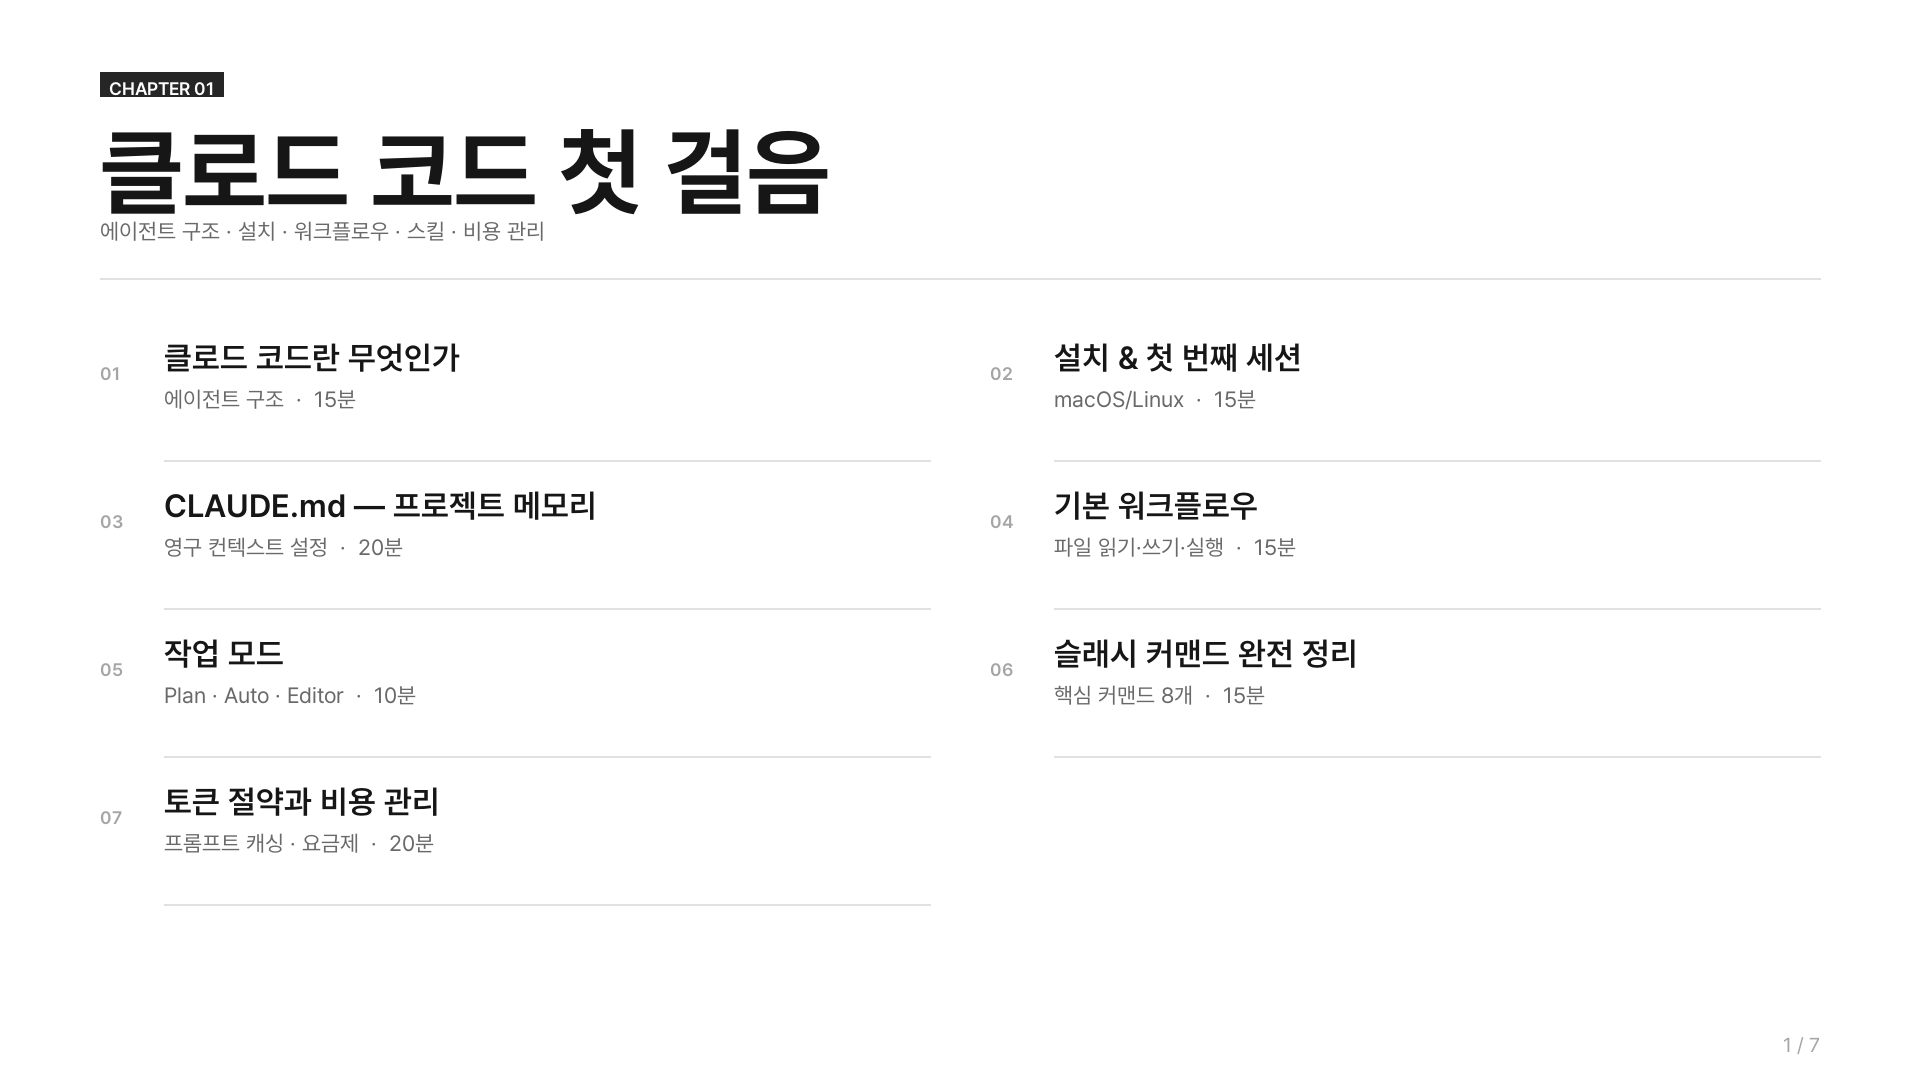
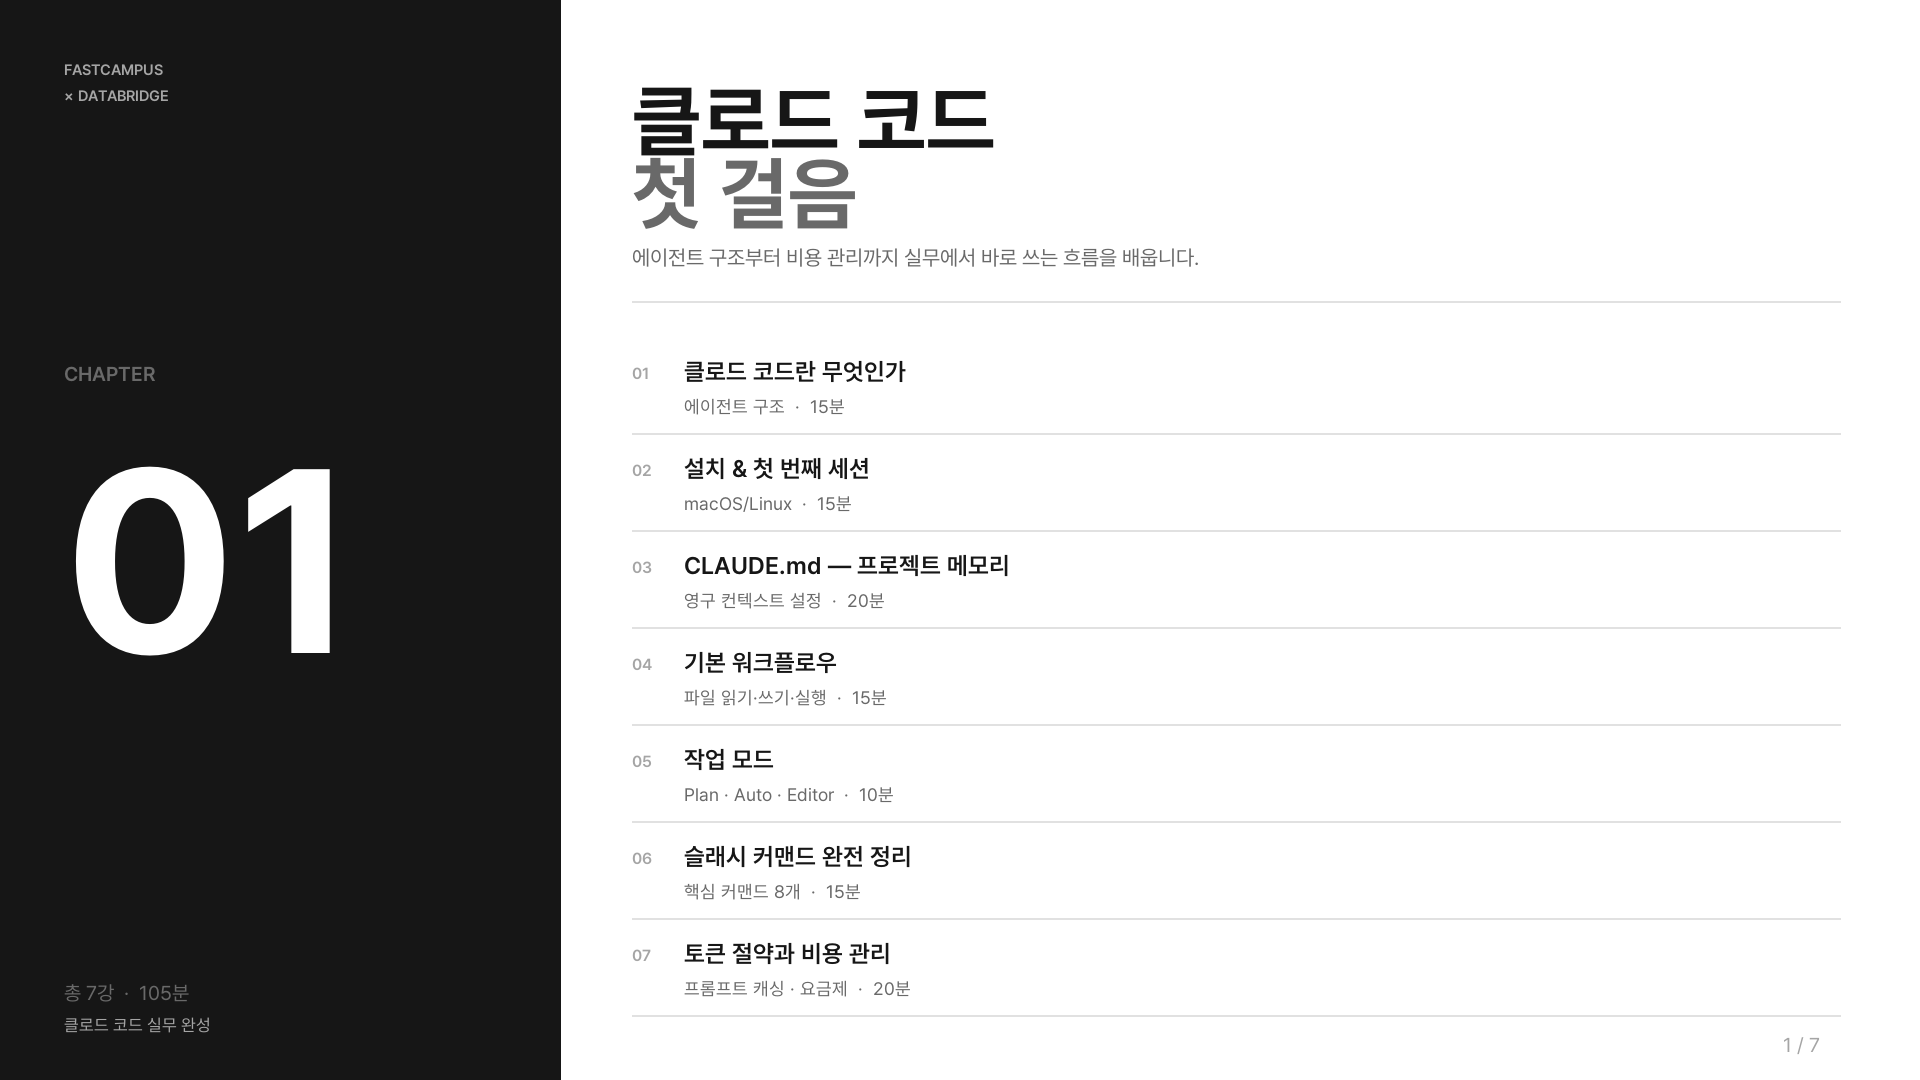
CH01 타이틀 슬라이드: 블랙/화이트 분할 전용 레이아웃

diff --git a/scripts/make_ch01_ref.py b/scripts/make_ch01_ref.py
@@ -140,39 +140,76 @@ def top_header(d, cat, title, desc="", tsz=52):
     y+=28; HL(d,MX,y,FW,C100); return y+28
 
 # ══════════════════════════════════════════════════════════════
-# SLIDE 01 — 챕터 타이틀
+# SLIDE 01 — 챕터 타이틀 (전용 레이아웃)
+# 좌: 블랙 패널 (챕터 번호) / 우: 화이트 패널 (제목 + 클립 목록)
 # ══════════════════════════════════════════════════════════════
 img,d=new_slide()
 
-# 대형 헤더
-y=72
-bw,bh=badge(d,MX,y,"CHAPTER 01",18); y+=bh+18
-f_big=F(96,"b")
-d.text((MX,y),"클로드 코드 첫 걸음",font=f_big,fill=C900)
-y+=th(d,"클로드 코드 첫 걸음",f_big)+18
-wT(d,MX,y,"에이전트 구조 · 설치 · 워크플로우 · 스킬 · 비용 관리",22,"r",C500,FW*0.65)
-y+=60; HL(d,MX,y,FW,C100); y+=40
+LP = 560        # 좌측 블랙 패널 너비
+PAD_L = 64      # 블랙 패널 내부 패딩
+PAD_R = 72      # 우측 패딩
 
-# 클립 목록 2열
-clips=[
-    ("01","클로드 코드란 무엇인가","에이전트 구조  ·  15분"),
-    ("02","설치 & 첫 번째 세션","macOS/Linux  ·  15분"),
-    ("03","CLAUDE.md — 프로젝트 메모리","영구 컨텍스트 설정  ·  20분"),
-    ("04","기본 워크플로우","파일 읽기·쓰기·실행  ·  15분"),
-    ("05","작업 모드","Plan · Auto · Editor  ·  10분"),
-    ("06","슬래시 커맨드 완전 정리","핵심 커맨드 8개  ·  15분"),
-    ("07","토큰 절약과 비용 관리","프롬프트 캐싱 · 요금제  ·  20분"),
+# ── 좌측 블랙 패널 ──────────────────────────────────────────
+d.rectangle([0, 0, LP, H], fill=C900)
+
+# 코스 라벨 (상단)
+T(d, PAD_L, 60, "FASTCAMPUS", 15, "sb", C300)
+T(d, PAD_L, 86, "× DATABRIDGE", 15, "sb", C300)
+
+# 대형 챕터 번호 — 슬라이드 중앙에 배치
+f_num = F(260, "b")
+num_str = "01"
+nw = tw(d, num_str, f_num)
+nh = th(d, num_str, f_num)
+nx = PAD_L
+ny = (H - nh) // 2 - 40
+d.text((nx, ny), num_str, font=f_num, fill=WHITE)
+
+# "CHAPTER" 레이블 (숫자 위)
+T(d, PAD_L, ny - 44, "CHAPTER", 20, "sb", C500)
+
+# 총 시간 (하단)
+T(d, PAD_L, H - 100, "총 7강  ·  105분", 20, "r", C500)
+T(d, PAD_L, H - 66, "클로드 코드 실무 완성", 17, "r", C300)
+
+# ── 우측 화이트 패널 ─────────────────────────────────────────
+RX_T = LP + PAD_R   # 우측 콘텐츠 X
+RW_T = W - RX_T - 80
+
+# 제목 블록
+ty = 72
+T(d, RX_T, ty, "클로드 코드", 80, "b", C900)
+ty += th(d, "클로드 코드", F(80, "b")) + 4
+T(d, RX_T, ty, "첫 걸음", 80, "b", C500)
+ty += th(d, "첫 걸음", F(80, "b")) + 28
+wT(d, RX_T, ty, "에이전트 구조부터 비용 관리까지 실무에서 바로 쓰는 흐름을 배웁니다.", 21, "r", C500, RW_T)
+ty += 56
+HL(d, RX_T, ty, RW_T, C100, 1)
+ty += 36
+
+# 클립 목록 (단일 열, 세로로 쭉)
+clips = [
+    ("01", "클로드 코드란 무엇인가",    "에이전트 구조  ·  15분"),
+    ("02", "설치 & 첫 번째 세션",       "macOS/Linux  ·  15분"),
+    ("03", "CLAUDE.md — 프로젝트 메모리","영구 컨텍스트 설정  ·  20분"),
+    ("04", "기본 워크플로우",           "파일 읽기·쓰기·실행  ·  15분"),
+    ("05", "작업 모드",                "Plan · Auto · Editor  ·  10분"),
+    ("06", "슬래시 커맨드 완전 정리",    "핵심 커맨드 8개  ·  15분"),
+    ("07", "토큰 절약과 비용 관리",      "프롬프트 캐싱 · 요금제  ·  20분"),
 ]
-COL2=(FW-60)//2; RH=148
-for i,(num,title,sub) in enumerate(clips):
-    col=i%2; row=i//2
-    cx=MX+col*(COL2+60); cy=y+row*RH
-    T(d,cx,cy+44,num,18,"sb",C300)
-    d.text((cx+64,cy+20),title,font=F(32,"sb"),fill=C900)
-    d.text((cx+64,cy+68),sub,font=F(22,"r"),fill=C500)
-    HL(d,cx+64,cy+RH-6,COL2-64,C100)
+# 가용 높이를 클립 수로 나눠 균등 배분
+avail = H - ty - 60
+RH_T = avail // len(clips)
 
-pg(d,1,7); save(img,"01_title.png")
+for num, title, sub in clips:
+    T(d, RX_T, ty + RH_T // 2 - 22, num, 16, "sb", C300)
+    d.text((RX_T + 52, ty + RH_T // 2 - 28), title, font=F(24, "sb"), fill=C900)
+    d.text((RX_T + 52, ty + RH_T // 2 + 10), sub, font=F(18, "r"), fill=C500)
+    HL(d, RX_T, ty + RH_T - 1, RW_T, C100)
+    ty += RH_T
+
+pg(d, 1, 7)
+save(img, "01_title.png")
 
 # ══════════════════════════════════════════════════════════════
 # SLIDE 02 — ChatGPT vs Claude Code
